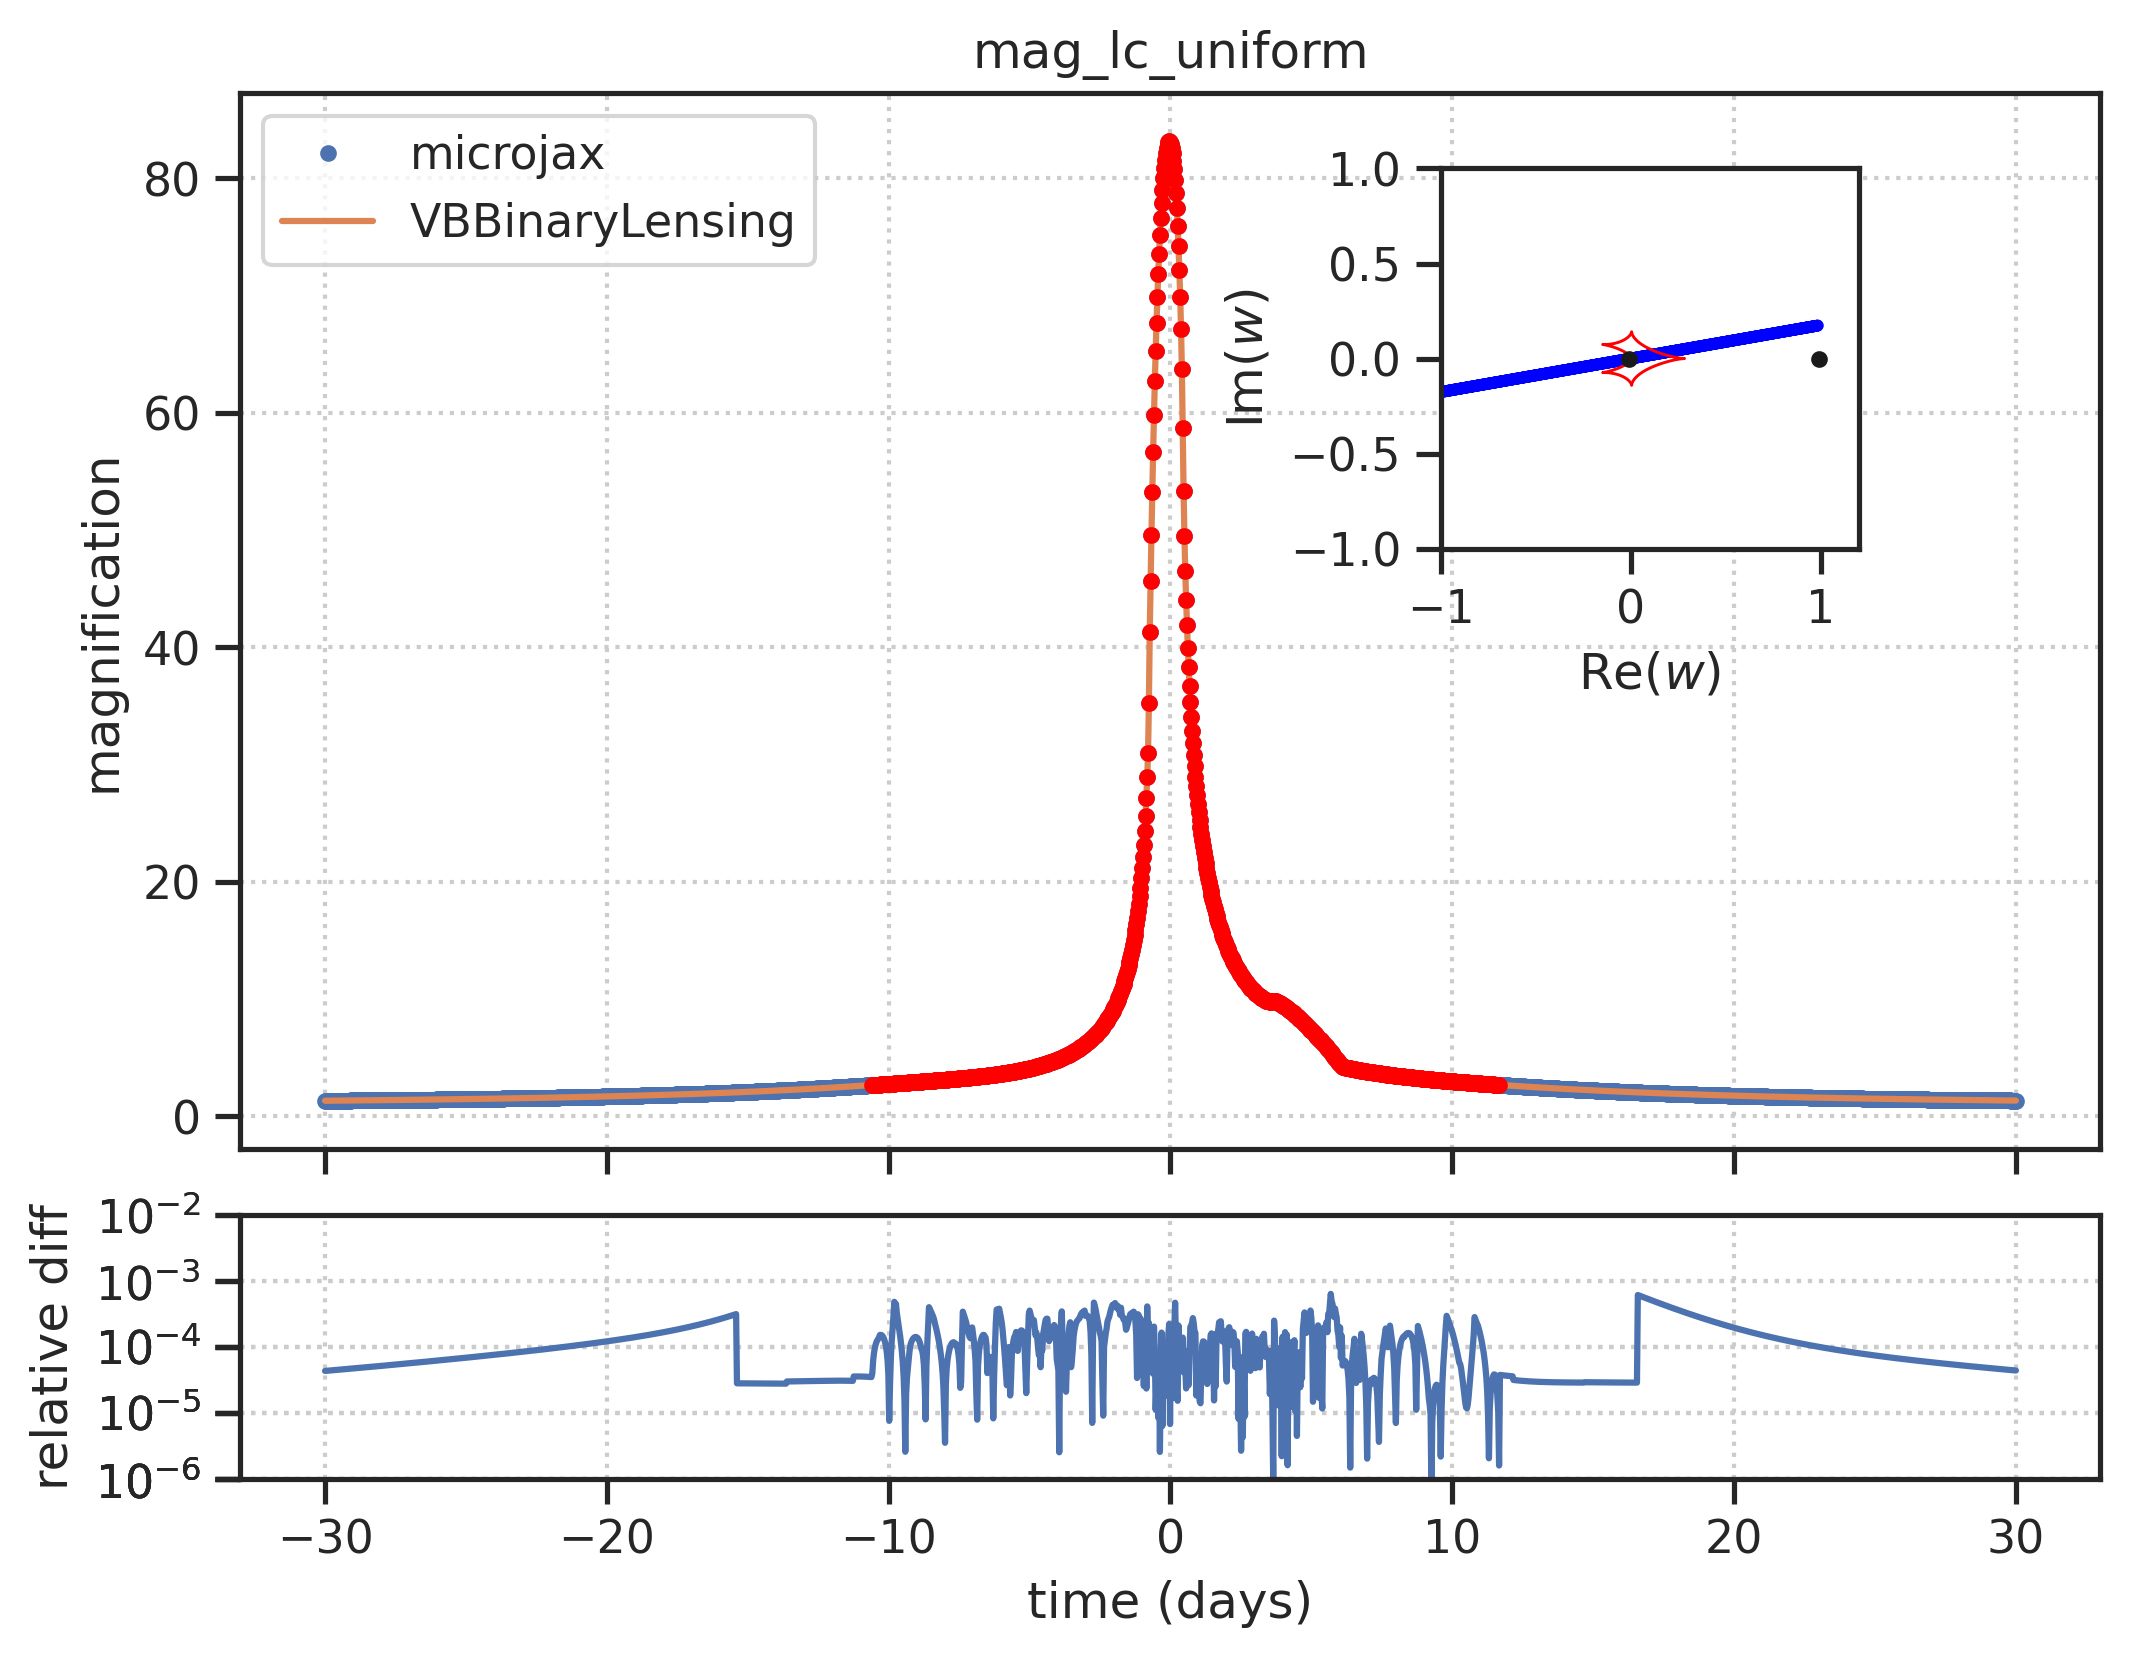
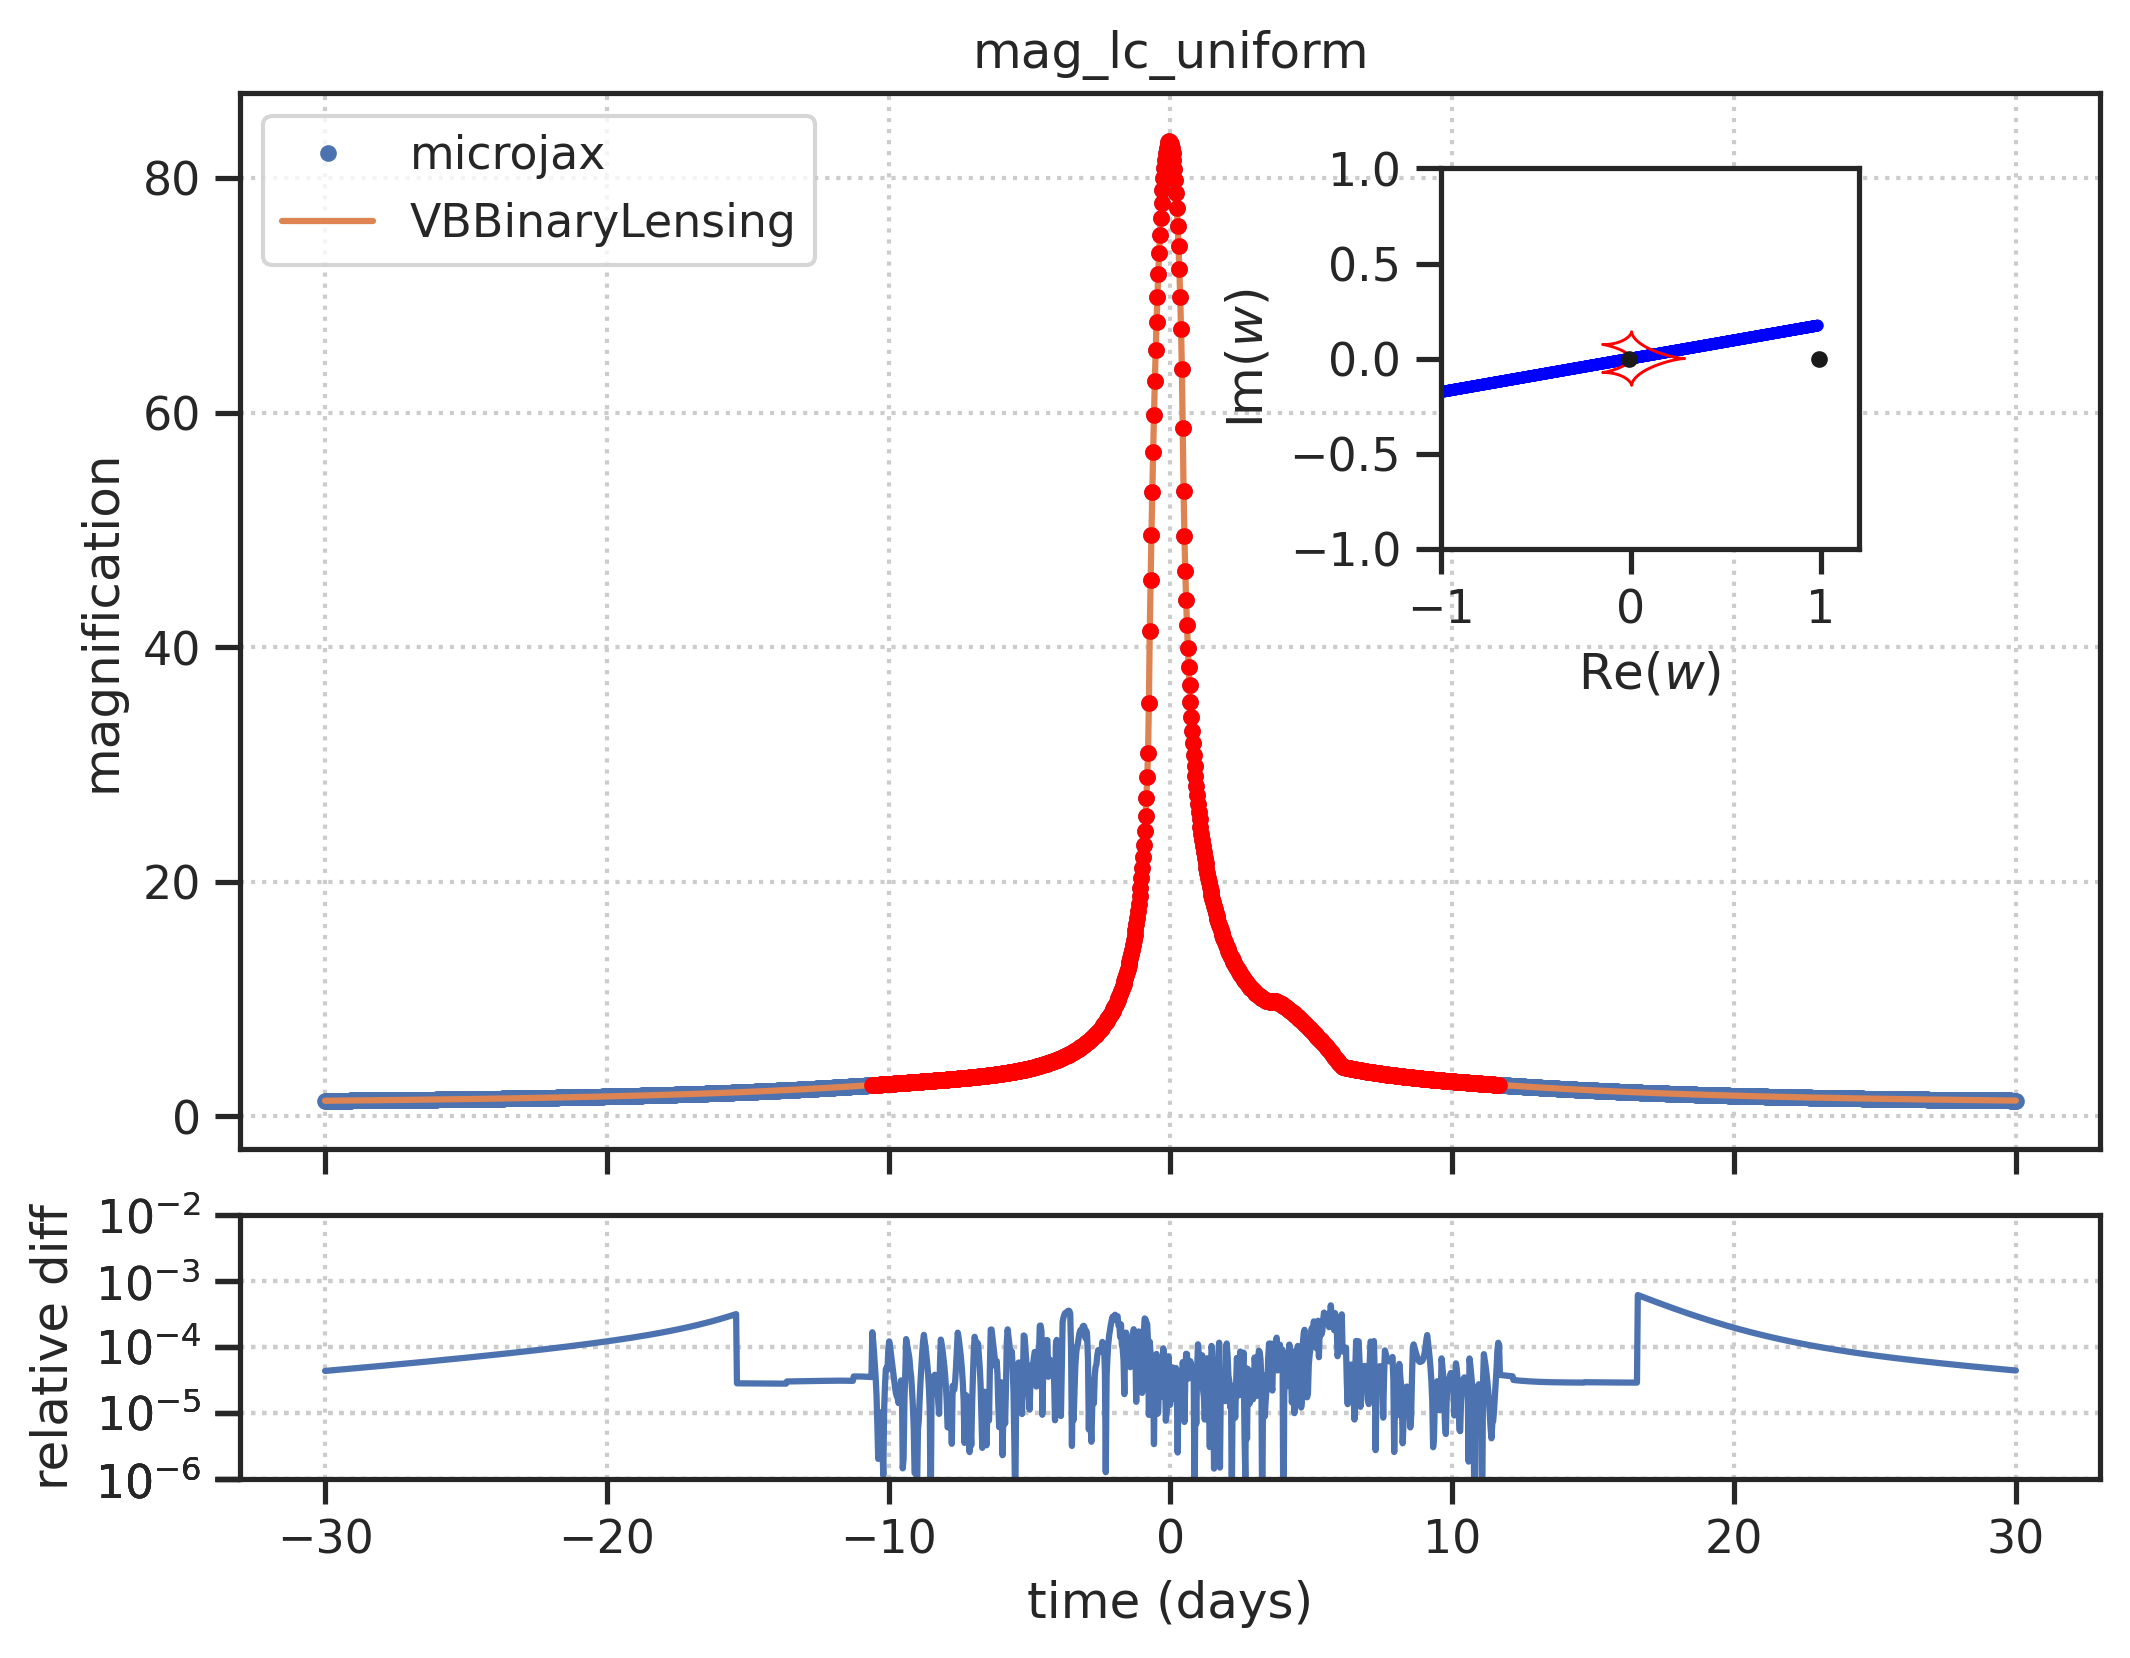
remove cubic option for inverse-ray

Changed region(s): [[0.4028, 0.769, 0.7127, 0.892], [0.062, 0.0923, 0.093, 0.123]]

diff --git a/src/microjax/inverse_ray/lightcurve.py b/src/microjax/inverse_ray/lightcurve.py
@@ -14,9 +14,9 @@ from microjax.inverse_ray.cond_extended import test_full
 @partial(jit,static_argnames=("r_resolution", "th_resolution", "u1", "delta_c", 
                               "bins_r", "bins_th", "margin_r", "margin_th", 
                               "Nlimb", "MAX_FULL_CALLS", "chunk_size", "cubic"))
-def mag_binary(w_points, rho, r_resolution=250, th_resolution=1000, u1=0.0, delta_c=0.01,
+def mag_binary(w_points, rho, r_resolution=1000, th_resolution=1000, u1=0.0, delta_c=0.01,
                Nlimb=500, bins_r=50, bins_th=120, margin_r=0.5, margin_th=0.5, 
-               MAX_FULL_CALLS=500, chunk_size=50, cubic=True, **params):
+               MAX_FULL_CALLS=500, chunk_size=100, **params):
     s = params.get("s", None)
     q = params.get("q", None)
     if s is None or q is None:
@@ -38,63 +38,26 @@ def mag_binary(w_points, rho, r_resolution=250, th_resolution=1000, u1=0.0, delt
 
     if u1 == 0.0:
         def _mag_full(w):
-            return mag_uniform(
-                w, rho,
-                nlenses      = nlenses,
-                r_resolution = r_resolution,
-                th_resolution= th_resolution,
-                bins_r       = bins_r,
-                bins_th      = bins_th,
-                margin_r     = margin_r,
-                margin_th    = margin_th,
-                Nlimb        = Nlimb,
-                cubic        = cubic,
-                **_params
-            )
+            return mag_uniform(w, rho, nlenses = nlenses, r_resolution = r_resolution, th_resolution = th_resolution,
+                               bins_r = bins_r, bins_th = bins_th, margin_r = margin_r, margin_th = margin_th, 
+                               Nlimb = Nlimb, **_params)
     else:
         def _mag_full(w):
-            return mag_limb_dark(
-                w, rho,
-                nlenses      = nlenses,
-                r_resolution = r_resolution,
-                th_resolution= th_resolution,
-                u1           = u1,
-                delta_c      = delta_c,
-                bins_r       = bins_r,
-                bins_th      = bins_th,
-                margin_r     = margin_r,
-                margin_th    = margin_th,
-                Nlimb        = Nlimb,
-                cubic        = cubic,
-                **_params
-            )
-    
-    #if u1==0:
-    #    mag_full = lambda w: mag_uniform(w, rho, nlenses=nlenses, r_resolution=r_resolution,th_resolution=th_resolution,
-    #                                     bins_r=bins_r, bins_th=bins_th, margin_r=margin_r, margin_th=margin_th, Nlimb=Nlimb, cubic=cubic, **_params)
-    #else:
-    #   mag_full = lambda w: mag_limb_dark(w, rho, nlenses=nlenses, r_resolution=r_resolution,th_resolution=th_resolution, u1=u1, delta_c=delta_c,
-    #                                      bins_r=bins_r, bins_th=bins_th, margin_r=margin_r, margin_th=margin_th, Nlimb=Nlimb, cubic=cubic, **_params) 
+            return mag_limb_dark(w, rho, nlenses = nlenses, r_resolution = r_resolution, th_resolution= th_resolution,
+                                 u1 = u1, delta_c = delta_c, bins_r = bins_r, bins_th = bins_th, margin_r = margin_r,
+                                 margin_th = margin_th, Nlimb = Nlimb, **_params)
     
     idx_sorted = jnp.argsort(test)
-    idx_full = idx_sorted[:MAX_FULL_CALLS] 
-    
-    def chunked_vmap_map(func, data, chunk_size):
+    idx_full = idx_sorted[:MAX_FULL_CALLS]
+
+    def chunked_vmap(func, data, chunk_size):
         N = data.shape[0]
         pad_len = (-N) % chunk_size
-        padded = jnp.pad(data, [(0, pad_len)] + [(0, 0)] * (data.ndim - 1))
-        chunks = padded.reshape(-1, chunk_size, *data.shape[1:])  # shape = (n_chunks, chunk_size, ...)
-        #@jax.checkpoint
-        def apply_vmap(chunk):
-            return vmap(func)(chunk)
-        results = lax.map(apply_vmap, chunks)  # shape = (n_chunks, chunk_size, ...)
-        return results.reshape(-1, *results.shape[2:])[:N]
+        chunks = jnp.pad(data, [(0, pad_len)] + [(0, 0)] * (data.ndim - 1)).reshape(-1, chunk_size, *data.shape[1:])
+        return lax.map(lambda c: vmap(func)(c), chunks).reshape(-1, *data.shape[2:])[:N]
 
     mag_full = jax.checkpoint(_mag_full)
-    #mag_extended = jax.checkpoint(chunked_vmap_map)(_mag_full, w_points[idx_full], chunk_size)
-    #mag_extended = chunked_vmap_map(_mag_full, w_points[idx_full], chunk_size)
-    mag_extended = chunked_vmap_map(mag_full, w_points[idx_full], chunk_size)
-    #mag_extended = chunked_vmap_map(mag_full, w_points[idx_full], chunk_size)
+    mag_extended = chunked_vmap(mag_full, w_points[idx_full], chunk_size)
     mags = mu_multi.at[idx_full].set(mag_extended)
     mags = jnp.where(test, mu_multi, mags)
     return mags 
@@ -102,9 +65,9 @@ def mag_binary(w_points, rho, r_resolution=250, th_resolution=1000, u1=0.0, delt
 @partial(jit,static_argnames=("r_resolution", "th_resolution", "u1", "delta_c",
                               "bins_r", "bins_th", "margin_r", "margin_th", 
                               "Nlimb", "MAX_FULL_CALLS", "chunk_size", "cubic"))
-def mag_triple(w_points, rho, r_resolution=500, th_resolution=500, u1=0.0, delta_c=0.01,
+def mag_triple(w_points, rho, r_resolution=1000, th_resolution=1000, u1=0.0, delta_c=0.01,
                Nlimb=500, bins_r=50, bins_th=120, margin_r=1.0, margin_th=1.0, 
-               MAX_FULL_CALLS=500, chunk_size=50, cubic=True, **params):
+               MAX_FULL_CALLS=500, chunk_size=50, **params):
     nlenses = 3
     s, q, q3 = params["s"], params["q"], params["q3"]
     a = 0.5 * s
@@ -120,28 +83,33 @@ def mag_triple(w_points, rho, r_resolution=500, th_resolution=500, u1=0.0, delta
     z, z_mask = _images_point_source(w_points_shifted, nlenses=nlenses, **_params) 
     mu_multi, delta_mu_multi = _mag_hexadecapole(z, z_mask, rho, nlenses=nlenses, **_params)
     test = jnp.zeros_like(w_points).astype(jnp.bool_)
-    if u1 == 0:
-        mag_full = lambda w: mag_uniform(w, rho, nlenses=nlenses, r_resolution=r_resolution, th_resolution=th_resolution,
-                                         bins_r=bins_r, bins_th=bins_th, margin_r=margin_r, margin_th=margin_th, Nlimb=Nlimb, cubic=cubic, **_params)
+
+    if u1 == 0.0:
+        def _mag_full(w):
+            return mag_uniform(w, rho, nlenses = nlenses, r_resolution = r_resolution, th_resolution = th_resolution,
+                               bins_r = bins_r, bins_th = bins_th, margin_r = margin_r, margin_th = margin_th, 
+                               Nlimb = Nlimb, **_params)
     else:
-       mag_full = lambda w: mag_limb_dark(w, rho, nlenses=nlenses, r_resolution=r_resolution, th_resolution=th_resolution, u1=u1, delta_c=delta_c,
-                                          bins_r=bins_r, bins_th=bins_th, margin_r=margin_r, margin_th=margin_th, Nlimb=Nlimb, cubic=cubic, **_params) 
+        def _mag_full(w):
+            return mag_limb_dark(w, rho, nlenses = nlenses, r_resolution = r_resolution, th_resolution= th_resolution,
+                                 u1 = u1, delta_c = delta_c, bins_r = bins_r, bins_th = bins_th, margin_r = margin_r,
+                                 margin_th = margin_th, Nlimb = Nlimb, **_params)
+
     idx_sorted = jnp.argsort(test)
-    idx_full = idx_sorted[:MAX_FULL_CALLS] 
-    def chunked_vmap_map(func, data, chunk_size):
+    idx_full = idx_sorted[:MAX_FULL_CALLS]
+
+    def chunked_vmap(func, data, chunk_size):
         N = data.shape[0]
         pad_len = (-N) % chunk_size
-        padded = jnp.pad(data, [(0, pad_len)] + [(0, 0)] * (data.ndim - 1))
-        chunks = padded.reshape(-1, chunk_size, *data.shape[1:])  # shape = (n_chunks, chunk_size, ...)
-        def apply_vmap(chunk):
-            return vmap(func)(chunk)
-        results = lax.map(apply_vmap, chunks)  # shape = (n_chunks, chunk_size, ...)
-        return results.reshape(-1, *results.shape[2:])[:N]
-    
-    mag_extended = chunked_vmap_map(mag_full, w_points[idx_full], chunk_size)
+        chunks = jnp.pad(data, [(0, pad_len)] + [(0, 0)] * (data.ndim - 1)).reshape(-1, chunk_size, *data.shape[1:])
+        return lax.map(lambda c: vmap(func)(c), chunks).reshape(-1, *data.shape[2:])[:N]
+
+    mag_full = jax.checkpoint(_mag_full)
+    mag_extended = chunked_vmap(mag_full, w_points[idx_full], chunk_size)
     mags = mu_multi.at[idx_full].set(mag_extended)
     mags = jnp.where(test, mu_multi, mags)
     return mags 
+    
 
 if __name__ == "__main__":
     import time
@@ -179,8 +147,8 @@ if __name__ == "__main__":
     test_params = {"q": q, "s": s}  # Lens parameters
 
     Nlimb = 500
-    r_resolution  = 500
-    th_resolution = 500
+    r_resolution  = 1000
+    th_resolution = 1000
     MAX_FULL_CALLS = 1000
 
     cubic = True
